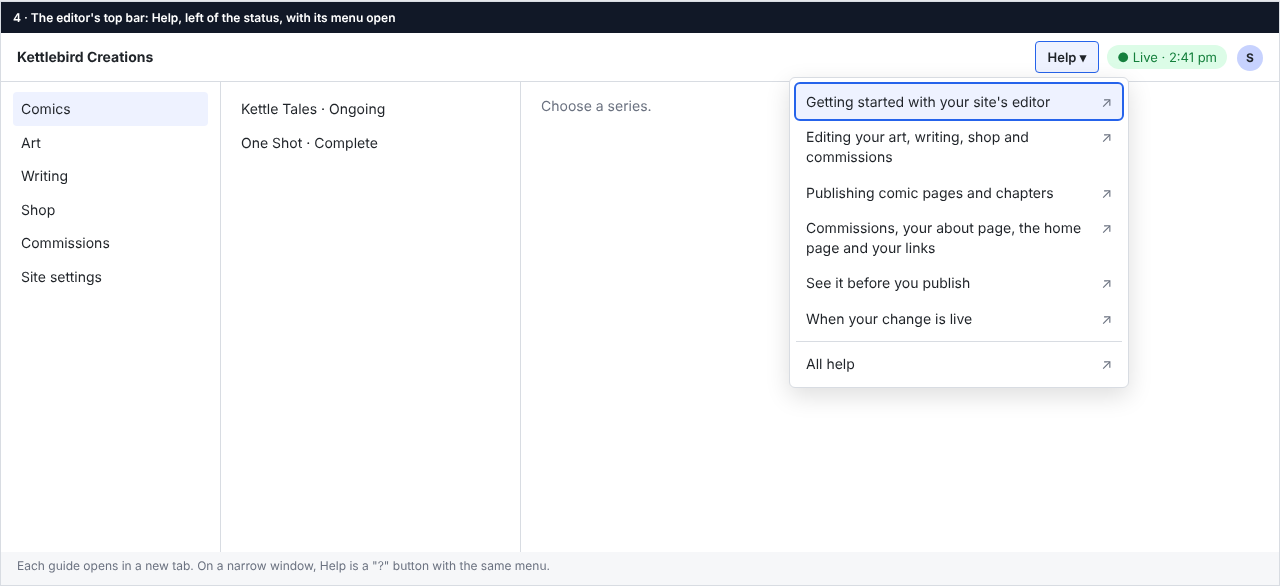
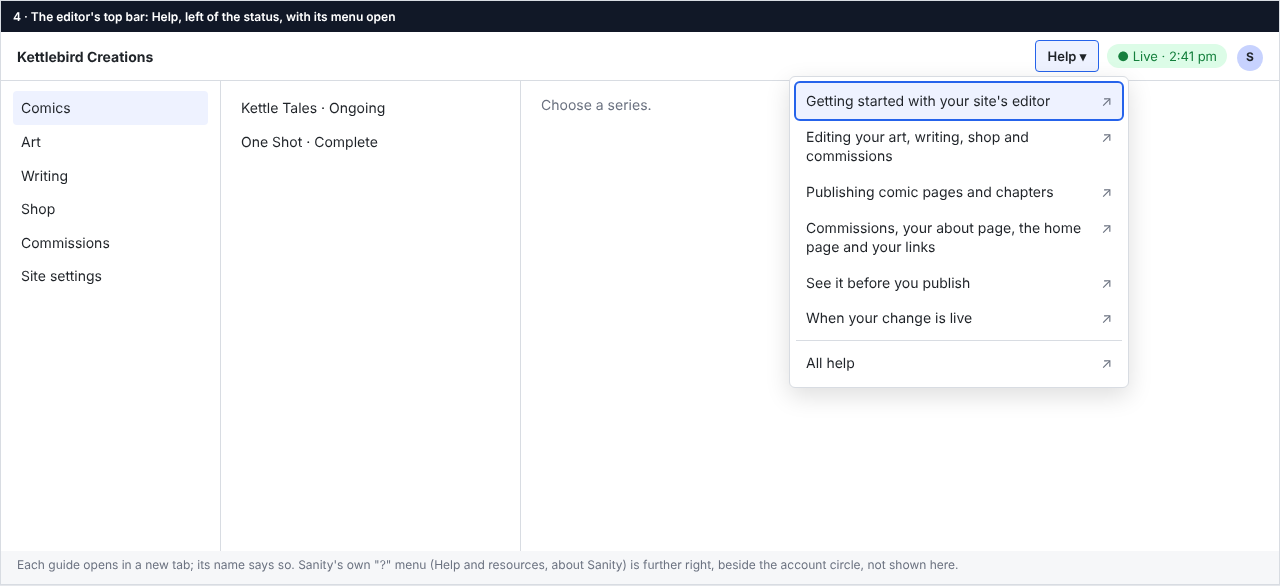
Design: revisions after the persona walkthrough
Sanity's own Help and resources menu stays (no setting removes it), so
Help is always a labelled button; menu items say they open a new tab;
wide tables scroll in a focusable, named box; /help summaries listed;
the item link wraps beside Hide preview; links between guides to a
missing guide or section fail the build; guide changes listed. Mock-ups
7 (narrow window) and 8 (preview open) added, 2 and 3 corrected.

Claude-Session: https://claude.ai/code/session_01HWRLNSVAoX5Ni8d8XcwJh1

diff --git a/docs/design/mockups/help-links/mockups.html b/docs/design/mockups/help-links/mockups.html
@@ -21,7 +21,10 @@
   .nav { display: flex; gap: 6px; }
   .nav span { font: 700 12px Nunito, system-ui; padding: 6px 10px; background: var(--green); }
   .nav span:nth-child(2n) { background: var(--yellow); }
-  .menu-btn { width: 40px; height: 34px; border: 3px solid var(--site); }
+  .menu-btn { width: 44px; height: 40px; border: 3px solid var(--site); display:flex; flex-direction:column; justify-content:center; gap:5px; padding:0 8px; }
+  .menu-btn i { display:block; height:3px; background: var(--site); }
+  .anno { font: 12px system-ui; color: #fff; background: #111827; padding: 3px 8px; display: inline-block; margin-top: 6px; }
+  .tbl:focus-visible, .tbl.f { outline: 3px solid var(--site); outline-offset: 3px; }
   .sbody { max-width: 760px; margin: 0 auto; padding: 18px 24px 36px; }
   .crumb { font-size: 13px; color: var(--purple); display: flex; justify-content: space-between; border-bottom: 2px dashed var(--purple); padding-bottom: 6px; margin-bottom: 18px; }
   .crumb a, .sbody a { color: var(--site); font-weight: 700; text-decoration: underline; }
@@ -93,14 +96,14 @@
 <div class="frame phone" id="m2">
 <h6>2 · The same page on a phone; a wide table scrolls inside its box</h6>
 <div class="site">
-  <div class="shead" style="padding:10px 16px"><div><div class="t" style="font-size:24px">Kettlebird</div><div class="s" style="font-size:11px">Comics + Illustration</div></div><div class="menu-btn"></div></div>
+  <div class="shead" style="padding:10px 16px"><div><div class="t" style="font-size:24px">Kettlebird</div><div class="s" style="font-size:11px">Comics + Illustration</div></div><div class="menu-btn" aria-label="Toggle menu"><i></i><i></i><i></i></div></div>
   <div class="sbody" style="padding:14px 16px 24px">
     <div class="crumb"><span>Help for your site's editor</span><a>All help</a></div>
     <h1 style="font-size:28px">Publishing comic pages and chapters</h1>
     <nav class="toc" aria-label="On this page"><strong>On this page</strong><ul style="columns:1"><li><a>Start a new comic</a></li><li><a>Add a chapter</a></li><li><a>Add pages</a></li><li>…</li></ul></nav>
     <h2>If something goes wrong</h2>
-    <div class="tbl"><table><tr><th>What you see</th><th>What it means</th><th>What to do</th></tr><tr><td>"Chapter 2 already exists in this series"</td><td>Two chapters have the same number.</td><td>Change the number on one of them.</td></tr></table></div>
-    <p class="scroll-hint">The table scrolls sideways; the page doesn't.</p>
+    <div class="tbl f" tabindex="0" role="region" aria-label="What you see, what it means, what to do"><table><tr><th>What you see</th><th>What it means</th><th>What to do</th></tr><tr><td>"Chapter 2 already exists in this series"</td><td>Two chapters have the same number.</td><td>Change the number on one of them.</td></tr></table></div>
+    <span class="anno">Annotation: the table scrolls sideways in its box (shown with keyboard focus); the page doesn't.</span>
   </div>
 </div>
 </div>
@@ -121,7 +124,7 @@
       <li><a>When your change is live</a><p>What the status at the top right means after you publish.</p></li>
     </ul>
   </div>
-  <div class="sfoot">Connect · Bluesky · Tumblr · Instagram · Ko-fi ☕ &nbsp;&nbsp; Contact · kettlebirdillustration@gmail.com</div>
+  <div class="sfoot">Connect · Bluesky · Tumblr · Instagram · Ko-fi ☕ &nbsp;&nbsp; Contact · kettlebirdillustration@gmail.com &nbsp;&nbsp; © 2026 Kettlebird Creations</div>
 </div>
 </div>
 
@@ -131,7 +134,7 @@
   <div class="pop"><div class="f">Getting started with your site's editor <span class="ext">↗</span></div><div>Editing your art, writing, shop and commissions <span class="ext">↗</span></div><div>Publishing comic pages and chapters <span class="ext">↗</span></div><div>Commissions, your about page, the home page and your links <span class="ext">↗</span></div><div>See it before you publish <span class="ext">↗</span></div><div>When your change is live <span class="ext">↗</span></div><hr><div>All help <span class="ext">↗</span></div></div>
 </div>
 <div class="cols"><div class="col"><div class="it sel">Comics</div><div class="it">Art</div><div class="it">Writing</div><div class="it">Shop</div><div class="it">Commissions</div><div class="it">Site settings</div></div><div class="col"><div class="it">Kettle Tales · Ongoing</div><div class="it">One Shot · Complete</div></div><div class="doc"><div class="bd" style="color:var(--muted)">Choose a series.</div></div></div>
-<div class="note">Each guide opens in a new tab. On a narrow window, Help is a "?" button with the same menu.</div>
+<div class="note">Each guide opens in a new tab; its name says so. Sanity's own "?" menu (Help and resources, about Sanity) is further right, beside the account circle, not shown here.</div>
 </div>
 
 <div class="frame" id="m5">
@@ -144,6 +147,18 @@
 <h6>6 · Site settings, Commissions: the help link above the box of things to fix</h6>
 <div class="top"><strong>Kettlebird Creations</strong><span><span class="btn">Help ▾</span> &nbsp;<span class="status">● Live · 2:41 pm</span><span class="avatar">S</span></span></div>
 <div class="cols"><div class="col"><div class="it">Comics</div><div class="it">Art</div><div class="it">Writing</div><div class="it">Shop</div><div class="it">Commissions</div><div class="it sel">Site settings</div></div><div class="col"><div class="it sel">Commissions</div><div class="it">About page</div><div class="it">Home page</div><div class="it">Contact and social links</div></div><div class="doc"><div class="hd">Commissions</div><div class="bd"><div class="tl"><span class="hl">Help: Open or close commissions ↗</span><span class="btn">Preview</span></div><div class="fix">Fix this before publishing: Note when closed is over 120 characters.</div><div class="field"><label>Commissions are…</label><div class="input">○ Open &nbsp; ◉ Closed</div></div><div class="field"><label>Note when closed</label><div class="input">Back in March, once the convention season is over and I've caught up on the queue of…</div></div></div><div class="bar"><span class="btn primary">Publish</span></div></div></div>
+</div>
+
+<div class="frame" id="m7" style="width:600px">
+<h6>7 · A narrow window: Help keeps its word; Sanity's "?" menu has moved into its side menu (☰)</h6>
+<div class="top"><span><span class="btn">☰</span> <strong>Kettlebird Creations</strong></span><span><span class="btn">Help ▾</span> &nbsp;<span class="status" style="background:#fef3c7;color:#92400e">⚠ Can't check the site right now</span><span class="avatar">S</span></span></div>
+<div class="cols" style="grid-template-columns:1fr;min-height:200px"><div class="doc"><div class="bd"><div class="tl"><span class="hl">Help: Start a new comic ↗</span><span class="btn">Preview</span></div><div class="field"><label>Title</label><div class="input">Kettle Tales</div></div></div></div></div>
+</div>
+
+<div class="frame" id="m8">
+<h6>8 · Contact and social links with the preview open: the long link wraps; Hide preview stays at the right</h6>
+<div class="top"><strong>Kettlebird Creations</strong><span><span class="btn">Help ▾</span> &nbsp;<span class="status">● Live · 2:41 pm</span><span class="avatar">S</span></span></div>
+<div style="display:grid;grid-template-columns:48px 300px 1fr;min-height:360px"><div class="col" style="padding:6px"></div><div class="doc" style="border-right:1px solid var(--line)"><div class="hd">Contact and social links</div><div class="bd"><div class="tl" style="align-items:flex-start;gap:10px"><span class="hl" style="max-width:170px">Help: Your contact email and social links ↗</span><span class="btn on" style="white-space:nowrap">Hide preview</span></div><div class="field"><label>Contact email</label><div class="input">star@kettlebird.com</div></div><div class="field"><label>Social links</label><div class="input">Bluesky · Tumblr · Ko-fi</div></div></div><div class="bar"><span class="btn primary">Publish</span></div></div><div style="background:#d1d5db;padding:16px"><div style="background:var(--paper);border:1px solid #bbb;height:100%;padding:12px;font-family:system-ui;color:var(--site)">Preview of the home page, scrolled to the social links and footer (as in design-preview)</div></div></div>
 </div>
 
 </body>

diff --git a/docs/design/help-links.md b/docs/design/help-links.md
@@ -41,7 +41,20 @@ Mock-ups 1 (computer) and 2 (phone).
 - The guide's text, in the site's body font and a reading width (about 70 characters), with tables that scroll sideways on a phone rather than squeezing. Bold control names stay bold, as in the files.
 - At the end, **All help** again.
 
-`/help` itself (mock-up 3) is the same page with the six guides as a list, each with its title and its first sentence, in the order Star needs them: getting started, editing, publishing comics, Site settings, previewing, going live.
+- A table wider than the screen scrolls sideways inside its own box, never the page. The box can be reached with Tab, shows when it has focus, and is named after the table ("What you see, what it means, what to do").
+
+`/help` itself (mock-up 3) is the same page with the six guides as a list, each with its title and a one-line summary, in the order Star needs them:
+
+| Guide | Summary |
+|---|---|
+| Getting started with your site's editor | Your invitation, signing in, and finding your way around. |
+| Editing your art, writing, shop and commissions | Adding, changing and removing pieces, stories, products and commission types. |
+| Publishing comic pages and chapters | Starting a comic, adding chapters and pages, and publishing them. |
+| Commissions, your about page, the home page and your links | Opening and closing commissions, and the text on your site's pages. |
+| See it before you publish | Previewing a change on its page, on a computer and a phone. |
+| When your change is live | What the status at the top right means after you publish. |
+
+The summaries are kept with each guide, so a new guide brings its own.
 
 ## In the editor
 
@@ -49,7 +62,7 @@ Mock-ups 1 (computer) and 2 (phone).
 
 - **Help**, in the top bar, just left of the live status, on every screen.
 - Choosing it opens a short menu: the six guides by their titles, then **All help**. Choosing one opens it in a new tab and closes the menu.
-- On a narrow window, **Help** shows as a question-mark button with the name "Help" (Sanity's own top bar folds the same way).
+- **Help** is always a button with the word "Help", never only an icon, even on a narrow window (mock-up 7). Sanity's own **Help and resources** menu, a "?" button at the right of the top bar, stays: Sanity offers no setting to remove it, and hiding it by other means could break with any Sanity update. It's about Sanity itself, and on a narrow window it moves into Sanity's side menu. The getting-started guide says which is which.
 
 ### Help at the top of each item (mock-ups 5 and 6)
 
@@ -70,6 +83,8 @@ Mock-ups 1 (computer) and 2 (phone).
 | **Site settings**: **Contact and social links** | Help: Your contact email and social links | `/help/site-settings#your-contact-email-and-social-links` |
 
 - On a Site settings item, the line sits above the "fix before publishing" box, which keeps its place at the top of the form.
+- When the form narrows beside the preview, the link wraps onto a second line if it needs to, and **Hide preview** stays at the right (mock-up 8).
+- A chapter's link goes to "Add a chapter", the first of the guide's chapter sections; **On this page** lists the ones after it (adding pages, describing each page).
 - In the preview pane, there's no help link (the preview shows the site page only).
 
 ## States and errors
@@ -80,11 +95,12 @@ Mock-ups 1 (computer) and 2 (phone).
 | A guide is added | It isn't on `/help` or in the menu until the design lists it. |
 | The site is updating | The help page is the last published one; a guide merged a minute ago may not be there yet. |
 | A help address that doesn't exist | The site's **Page not found**. |
+| A guide links to a guide that isn't on `/help`, or to a section that doesn't exist | The build fails, so a help page never has a link that goes nowhere. |
 
 ## Accessibility
 
 - **Help** is a button with a menu (the menu's items are links); the arrow keys move through the menu, and Escape closes it, returning focus to **Help**.
-- Each link's name says where it goes and that it opens a new tab: "Help: Add a chapter (opens in a new tab)". The arrow is decoration and isn't read.
+- Each link's name, at the top of an item and in the **Help** menu, says where it goes and that it opens a new tab: "Help: Add a chapter (opens in a new tab)", "Publishing comic pages and chapters (opens in a new tab)". The arrow is decoration and isn't read.
 - The help pages use one `h1` (the guide's title), its sections as `h2`, and **On this page** as a navigation landmark named "On this page".
 - The help pages pass the site's axe check, at 200% text, and at 360 px wide with no sideways scrolling of the page (only wide tables scroll, within themselves).
 
@@ -98,9 +114,21 @@ Mock-ups 1 (computer) and 2 (phone).
 | 4 | The editor's top bar with the Help menu open | `mockups/help-links/4-help-menu.png` |
 | 5 | A chapter, with "Help: Add a chapter" beside Preview | `mockups/help-links/5-chapter-help.png` |
 | 6 | Site settings, Commissions, with its help link above the fix box | `mockups/help-links/6-settings-help.png` |
+| 7 | A narrow window: **Help** keeps its word; Sanity's own "?" menu has moved into its side menu | `mockups/help-links/7-narrow-top-bar.png` |
+| 8 | Contact and social links with the preview open: the long link wraps, **Hide preview** stays right | `mockups/help-links/8-preview-open.png` |
 
 ## For the spec to check
 
 - The guides' section headings become ids the same way GitHub makes them, including headings with punctuation ("Commissions, your about page, …").
 - Building the guides adds no on-request page: `/help` is built ahead of time like the rest of the public site.
 - The no-link check covers `/help` as well as `/studio`.
+- Sanity 5.1's **Help and resources** menu: when it shows in the top bar and when it moves to the side menu, so the spec places **Help** beside it correctly.
+- Every link between guides, and every item's link, goes to a built guide and an existing section; the build fails otherwise.
+
+## For the guides
+
+Alongside this design, the guides change a little:
+
+- **Getting started** says where **Help** is, and that Sanity's "?" menu is Sanity's own.
+- **Editing your art, writing, shop and commissions**: "Whether commissions are open or closed is set in **Site settings**" links to the Site settings guide's "Open or close commissions", since a commission type's help link lands on that section.
+- Each guide carries its one-line summary for `/help`.
